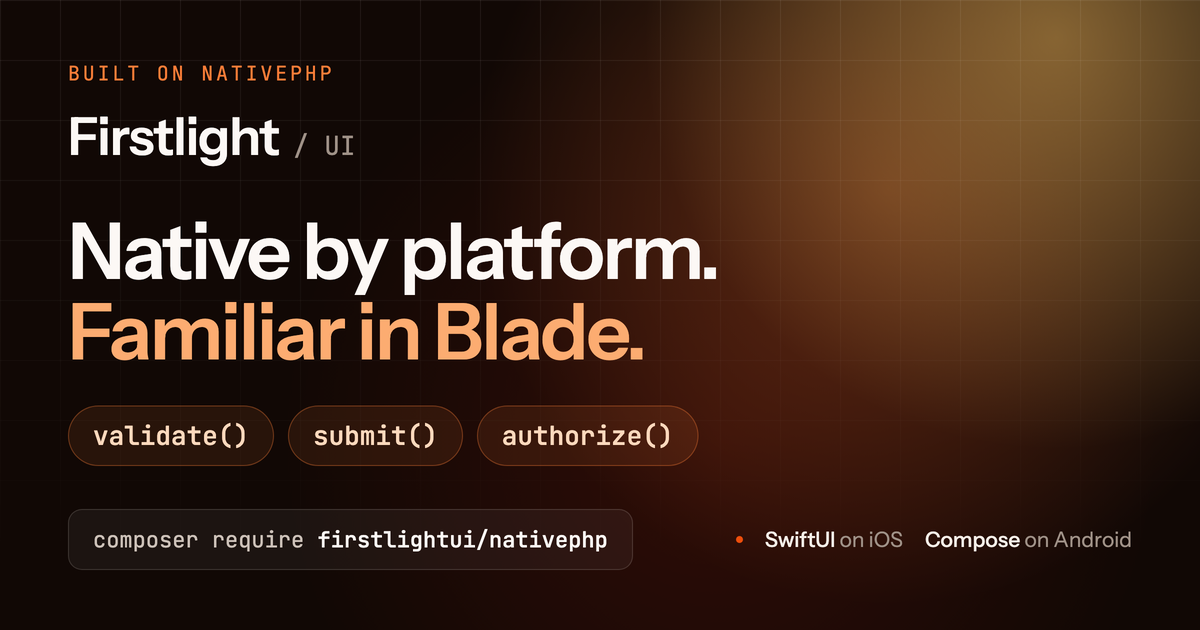
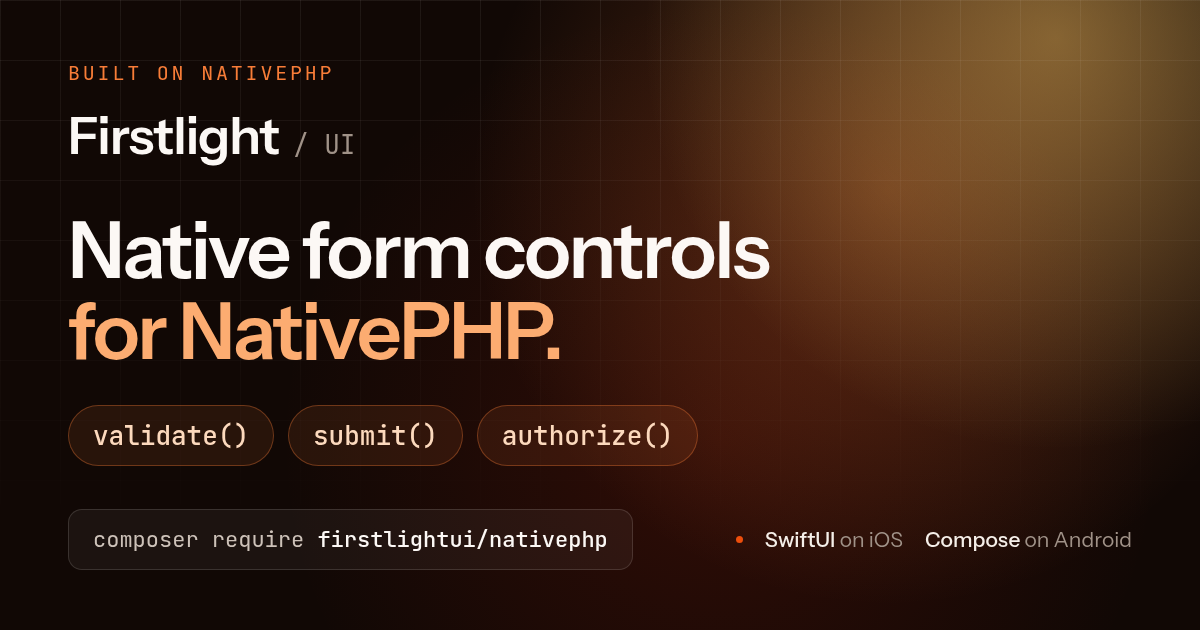
Replace slogan-style copy with plain descriptions
Rewrite the hero, section headings, comparison page, components index,
docs chrome, gallery summaries, and OG image so they say what Firstlight
does instead of using parallel taglines. Stop calling Firstlight an
alternative to Mobile UI, which the comparison page contradicts.

Amp-Thread-ID: https://ampcode.com/threads/T-01a16b09-656a-7799-a5f1-fa3d23450373

diff --git a/resources/og-image.html b/resources/og-image.html
@@ -79,7 +79,7 @@
     </div>
 
     <div>
-      <h1>Native by platform.<br><em>Familiar in Blade.</em></h1>
+      <h1>Native form controls<br><em>for NativePHP.</em></h1>
       <div class="helpers">
         <div class="helper">validate()</div>
         <div class="helper">submit()</div>

diff --git a/resources/views/welcome.blade.php b/resources/views/welcome.blade.php
@@ -1,7 +1,7 @@
 @inject('structuredData', 'App\\StructuredData')
 
 <x-layouts.app
-    title="Firstlight UI — Native-first building blocks for NativePHP"
+    title="Firstlight UI — Native form controls for NativePHP"
     description="Add Laravel validate(), submit(), and Gate-backed authorize() on native screens, plus a curated form layer on NativePHP Mobile UI."
     :schema="$structuredData->home()"
 >
@@ -15,10 +15,10 @@
                         Built on <a href="https://nativephp.com" class="rounded-sm underline decoration-(--site-border-strong) underline-offset-4 hover:decoration-(--site-primary) focus-visible:outline-2 focus-visible:outline-offset-4 focus-visible:outline-(--site-focus)" target="_blank" rel="noreferrer">NativePHP SuperNative</a>
                     </p>
                     <h1 class="max-w-[11ch] text-6xl font-semibold tracking-tight text-balance text-(--site-heading) sm:text-7xl lg:text-[5.75rem]">
-                        Native by platform. Familiar in Blade.
+                        Native form controls for NativePHP.
                     </h1>
                     <p class="max-w-[48ch] text-xl text-pretty text-(--site-muted)">
-                        Firstlight is a curated form and control layer for NativePHP Mobile UI. It builds on Mobile UI’s official SwiftUI and Jetpack Compose foundation, adding stable values, consistent field semantics, Laravel <code class="font-mono text-[0.95em]">validate()</code>, <code class="font-mono text-[0.95em]">submit()</code>, and Gate-backed <code class="font-mono text-[0.95em]">authorize()</code> on native screens, and server-authoritative state through familiar Blade components. NativePHP EDGE does not ship those PHP helpers; Firstlight does. It runs on the SuperNative foundation created by <a href="https://github.com/shanerbaner82" class="font-medium text-(--site-heading) underline decoration-(--site-border-strong) underline-offset-4 hover:decoration-(--site-primary) focus-visible:outline-2 focus-visible:outline-offset-4 focus-visible:outline-(--site-focus)" target="_blank" rel="noreferrer">Shane Rosenthal</a> and <a href="https://github.com/simonhamp" class="font-medium text-(--site-heading) underline decoration-(--site-border-strong) underline-offset-4 hover:decoration-(--site-primary) focus-visible:outline-2 focus-visible:outline-offset-4 focus-visible:outline-(--site-focus)" target="_blank" rel="noreferrer">Simon Hamp</a>.
+                        Firstlight is a curated form and control layer for NativePHP Mobile UI. Controls render with SwiftUI on iOS and Jetpack Compose on Android, keep their state in your PHP component, and come with Laravel-style <code class="font-mono text-[0.95em]">validate()</code>, <code class="font-mono text-[0.95em]">submit()</code>, and Gate-backed <code class="font-mono text-[0.95em]">authorize()</code> for native screens. It runs on the SuperNative foundation created by <a href="https://github.com/shanerbaner82" class="font-medium text-(--site-heading) underline decoration-(--site-border-strong) underline-offset-4 hover:decoration-(--site-primary) focus-visible:outline-2 focus-visible:outline-offset-4 focus-visible:outline-(--site-focus)" target="_blank" rel="noreferrer">Shane Rosenthal</a> and <a href="https://github.com/simonhamp" class="font-medium text-(--site-heading) underline decoration-(--site-border-strong) underline-offset-4 hover:decoration-(--site-primary) focus-visible:outline-2 focus-visible:outline-offset-4 focus-visible:outline-(--site-focus)" target="_blank" rel="noreferrer">Simon Hamp</a>.
                     </p>
                 </div>
 
@@ -110,10 +110,10 @@
             <div class="flex flex-col gap-5">
                 <p class="font-mono text-base uppercase tracking-wide text-(--site-primary) sm:text-sm">Built on NativePHP Mobile UI</p>
                 <h2 class="max-w-[18ch] text-4xl font-semibold tracking-tight text-balance text-(--site-heading) sm:text-5xl">
-                    A focused control layer for the native toolkit.
+                    A smaller catalogue on top of Mobile UI.
                 </h2>
                 <p class="max-w-[56ch] text-lg text-pretty text-(--site-muted)">
-                    <a href="https://nativephp.com" class="font-medium text-(--site-heading) underline decoration-(--site-border-strong) underline-offset-4 hover:decoration-(--site-primary) focus-visible:outline-2 focus-visible:outline-offset-4 focus-visible:outline-(--site-focus)" target="_blank" rel="noreferrer">NativePHP Mobile UI</a> provides the comprehensive native foundation for NativePHP applications. Firstlight builds on it with a smaller, opinionated catalogue for teams that want common form behaviour decided once and reused consistently.
+                    <a href="https://nativephp.com" class="font-medium text-(--site-heading) underline decoration-(--site-border-strong) underline-offset-4 hover:decoration-(--site-primary) focus-visible:outline-2 focus-visible:outline-offset-4 focus-visible:outline-(--site-focus)" target="_blank" rel="noreferrer">NativePHP Mobile UI</a> provides the native foundation for NativePHP apps. Firstlight adds a smaller, opinionated set of controls for apps that want the same form behaviour on every screen.
                 </p>
                 <div class="flex flex-wrap items-center gap-x-6 gap-y-2">
                     <a href="{{ route('comparison') }}" class="rounded-sm py-2 text-base font-semibold text-(--site-heading) underline decoration-(--site-border-strong) underline-offset-4 hover:decoration-(--site-primary) focus-visible:outline-2 focus-visible:outline-offset-4 focus-visible:outline-(--site-focus) sm:text-sm">Firstlight vs NativePHP Mobile UI →</a>
@@ -123,19 +123,19 @@
 
             <dl class="mt-16 grid gap-0 md:grid-cols-3">
                 <div class="flex flex-col gap-4 border-t border-(--site-border) py-8 md:border-t-0 md:border-r md:py-0 md:pr-8">
-                    <dt class="text-xl font-semibold text-(--site-heading)">Familiar at the source</dt>
+                    <dt class="text-xl font-semibold text-(--site-heading)">Plain Blade and PHP</dt>
                     <dd class="text-base text-pretty text-(--site-muted) sm:text-sm">
-                        Compose controls with Blade tags, Laravel properties, and NativePHP events. No parallel state model to learn.
+                        Use controls as Blade tags bound to properties on your component, with ordinary NativePHP events. There is no separate state model to learn.
                     </dd>
                 </div>
                 <div class="flex flex-col gap-4 border-t border-(--site-border) py-8 md:border-t-0 md:border-r md:px-8 md:py-0">
-                    <dt class="text-xl font-semibold text-(--site-heading)">NativePHP all the way down</dt>
+                    <dt class="text-xl font-semibold text-(--site-heading)">Built with Mobile UI’s extension points</dt>
                     <dd class="text-base text-pretty text-(--site-muted) sm:text-sm">
-                        Firstlight uses Mobile UI’s ordinary component extension points, inherits its semantic theme, and follows the same SwiftUI and Material 3 approach.
+                        Firstlight registers its controls through Mobile UI’s ordinary component extension points, inherits its theme, and renders with SwiftUI and Material 3.
                     </dd>
                 </div>
                 <div class="flex flex-col gap-4 border-y border-(--site-border) py-8 md:border-y-0 md:py-0 md:pl-8">
-                    <dt class="text-xl font-semibold text-(--site-heading)">Laravel SuperNative extensions</dt>
+                    <dt class="text-xl font-semibold text-(--site-heading)">Validation, submit, and authorization</dt>
                     <dd class="text-base text-pretty text-(--site-muted) sm:text-sm">
                         NativePHP has no screen-level <code class="font-mono text-[0.95em]">validate()</code>, guarded <code class="font-mono text-[0.95em]">submit()</code>, or Gate-backed <code class="font-mono text-[0.95em]">authorize()</code>. Firstlight adds those PHP contracts on native fields and actions.
                     </dd>
@@ -150,10 +150,10 @@
             <div class="flex flex-col gap-5">
                 <p class="font-mono text-base uppercase tracking-wide text-(--site-primary) sm:text-sm">Laravel SuperNative extensions</p>
                 <h2 class="max-w-[18ch] text-4xl font-semibold tracking-tight text-balance text-(--site-heading) sm:text-5xl">
-                    NativePHP publishes a tree. Firstlight adds Laravel around it.
+                    Laravel helpers for native screens.
                 </h2>
                 <p class="max-w-[56ch] text-lg text-pretty text-(--site-muted)">
-                    NativePHP EDGE has no screen-level <code class="font-mono text-[0.95em]">validate()</code>, no once-run submit helper, and no Gate-backed action guard. Failed rules, double presses, and unauthorized mutations still fall through to sibling text or the generic overlay. Firstlight adds three PHP concerns on <code class="font-mono text-[0.95em]">NativeComponent</code>: <code class="font-mono text-[0.95em]">ValidatesFields</code>, <code class="font-mono text-[0.95em]">SubmitsForms</code>, and <code class="font-mono text-[0.95em]">AuthorizesActions</code>.
+                    NativePHP EDGE has no screen-level <code class="font-mono text-[0.95em]">validate()</code>, no once-run submit helper, and no Gate-backed action guard. Without them, validation errors appear as sibling text or the generic error overlay, a double tap can run an action twice, and an authorization failure opens the overlay. Firstlight adds three PHP concerns on <code class="font-mono text-[0.95em]">NativeComponent</code>: <code class="font-mono text-[0.95em]">ValidatesFields</code>, <code class="font-mono text-[0.95em]">SubmitsForms</code>, and <code class="font-mono text-[0.95em]">AuthorizesActions</code>.
                 </p>
             </div>
 
@@ -170,7 +170,7 @@
                 <div class="flex flex-col gap-4 border-t border-(--site-border) py-8 lg:border-t-0 lg:border-r lg:px-8 lg:py-0">
                     <dt class="text-xl font-semibold text-(--site-heading)">Submit</dt>
                     <dd class="text-base text-pretty text-(--site-muted) sm:text-sm">
-                        A NativePHP press is just a PHP method. Firstlight <code class="font-mono text-[0.95em]">submit()</code> validates, runs the callable once, optionally sends success Feedback, and guards re-entry on the same request.
+                        In NativePHP, a button press calls a plain PHP method. Firstlight <code class="font-mono text-[0.95em]">submit()</code> validates, runs the callable once, optionally sends success Feedback, and guards re-entry on the same request.
                     </dd>
                     <dd class="rounded-[calc(var(--radius-panel)-0.5rem)] bg-(--site-code) p-5 ring-1 ring-(--site-border)">
                         <pre class="overflow-x-auto font-mono text-base text-(--site-code-text) sm:text-sm"><code><span class="text-(--site-code-keyword)">$this</span>->submit(
@@ -214,7 +214,7 @@
                 <a href="{{ route('docs.show', ['path' => 'concepts/firstlight-and-mobile-ui']) }}" class="group flex flex-col items-start gap-3 rounded-(--radius-panel) bg-(--site-surface) p-6 ring-1 ring-(--site-border) hover:bg-(--site-elevated) focus-visible:outline-2 focus-visible:outline-offset-2 focus-visible:outline-(--site-focus)">
                     <p class="font-mono text-xs font-medium uppercase tracking-[0.12em] text-(--site-primary)">Concept</p>
                     <p class="text-xl font-semibold text-(--site-heading)">How Firstlight complements NativePHP Mobile UI</p>
-                    <p class="text-base text-pretty text-(--site-muted) sm:text-sm">See the focused form layer and Laravel-shaped PHP extensions Firstlight adds on Mobile UI.</p>
+                    <p class="text-base text-pretty text-(--site-muted) sm:text-sm">See which controls and PHP helpers Firstlight adds, and what stays in Mobile UI.</p>
                     <span class="pt-2 text-base font-semibold text-(--site-heading) underline decoration-(--site-border-strong) underline-offset-4 group-hover:decoration-(--site-primary) sm:text-sm">Read how the catalogues fit →</span>
                 </a>
             </div>
@@ -227,11 +227,11 @@
                 <div class="flex flex-col gap-5">
                     <p class="font-mono text-base uppercase tracking-wide text-(--site-primary) sm:text-sm">Current components</p>
                     <h2 class="max-w-[18ch] text-4xl font-semibold tracking-tight text-balance text-(--site-heading) sm:text-5xl">
-                        Curated controls. Consistent contracts.
+                        Form, selection, display, and action controls.
                     </h2>
                 </div>
                 <p class="max-w-[56ch] text-lg text-pretty text-(--site-muted)">
-                    Firstlight focuses on form, selection, display, and action controls with stable values, strict validation, and consistent field semantics. The catalogue grows where a reusable product-level contract saves every app from solving the same problem again.
+                    Every field shares the same value, label, error, disabled, and required behaviour, so a form needs no per-control special cases. New controls are added only when many apps would otherwise build the same thing themselves.
                 </p>
             </div>
 
@@ -288,27 +288,27 @@
     <section class="border-y border-(--site-border) bg-(--site-code) py-20 text-(--site-code-text) sm:py-28">
         <div class="mx-auto grid max-w-7xl items-start gap-12 px-6 lg:grid-cols-[13fr_11fr] lg:px-8">
             <div class="flex flex-col gap-6">
-                <p class="font-mono text-base uppercase tracking-wide text-(--site-code-keyword) sm:text-sm">Firstlight in the NativePHP ecosystem</p>
+                <p class="font-mono text-base uppercase tracking-wide text-(--site-code-keyword) sm:text-sm">How it renders</p>
                 <h2 class="max-w-[18ch] text-4xl font-semibold tracking-tight text-balance sm:text-5xl">
-                    SuperNative supplies the bridge. Firstlight adds consistent product contracts.
+                    The same rendering pipeline as Mobile UI.
                 </h2>
                 <p class="max-w-[56ch] text-lg text-pretty text-(--site-code-muted)">
-                    Firstlight uses the same EDGE, Element Tree, shared-memory frame, renderer, theme, and event lifecycle as NativePHP Mobile UI. Ordinary interaction stays on the native UI thread.
+                    Firstlight uses the same EDGE element tree, renderers, theme, and event lifecycle as NativePHP Mobile UI. Ordinary interaction, such as typing and scrolling, stays on the native UI thread.
                 </p>
             </div>
 
             <dl class="divide-y divide-white/10 border-y border-white/10">
                 <div class="grid grid-cols-[auto_1fr] gap-x-5 py-5">
                     <dt class="font-mono text-base text-(--site-code-keyword) sm:text-sm">01</dt>
-                    <dd class="text-base text-pretty text-(--site-code-text) sm:text-sm">Blade compiles to a Firstlight element with stable public values.</dd>
+                    <dd class="text-base text-pretty text-(--site-code-text) sm:text-sm">Your Blade view compiles to Firstlight elements.</dd>
                 </div>
                 <div class="grid grid-cols-[auto_1fr] gap-x-5 py-5">
                     <dt class="font-mono text-base text-(--site-code-keyword) sm:text-sm">02</dt>
-                    <dd class="text-base text-pretty text-(--site-code-text) sm:text-sm">The shared element tree publishes primitive, platform-neutral intent.</dd>
+                    <dd class="text-base text-pretty text-(--site-code-text) sm:text-sm">The shared element tree describes each control in platform-neutral terms.</dd>
                 </div>
                 <div class="grid grid-cols-[auto_1fr] gap-x-5 py-5">
                     <dt class="font-mono text-base text-(--site-code-keyword) sm:text-sm">03</dt>
-                    <dd class="text-base text-pretty text-(--site-code-text) sm:text-sm">SwiftUI and Compose renderers express that intent natively.</dd>
+                    <dd class="text-base text-pretty text-(--site-code-text) sm:text-sm">SwiftUI on iOS and Jetpack Compose on Android draw the native control.</dd>
                 </div>
             </dl>
         </div>
@@ -321,7 +321,7 @@
                     <div class="flex min-w-0 flex-col gap-6">
                         <p class="font-mono text-base uppercase tracking-wide text-(--site-primary) sm:text-sm">Quickstart</p>
                         <h2 class="max-w-[18ch] text-4xl font-semibold tracking-tight text-balance text-(--site-heading) sm:text-5xl">
-                            Add consistent form contracts without leaving NativePHP.
+                            Add Firstlight to a NativePHP app.
                         </h2>
                         <p class="max-w-[56ch] text-lg text-pretty text-(--site-muted)">
                             Requires NativePHP Mobile <code class="font-mono text-[0.95em]">^4.6</code> and Mobile UI <code class="font-mono text-[0.95em]">^0.8</code>.

diff --git a/resources/views/comparison.blade.php b/resources/views/comparison.blade.php
@@ -8,7 +8,7 @@
         ],
         [
             'question' => 'What does Firstlight add that NativePHP does not have?',
-            'answer' => 'Two layers of contract. At the control level, every Firstlight component exposes a stable public value and the same field semantics — label, value, error, disabled, and required behave identically across text fields, selects, pickers, sliders, and choice groups, so a form does not need per-control special cases. At the screen level, NativePHP EDGE has no validate(), no once-run submit helper, and no Gate-backed action guard; Firstlight adds ValidatesFields, SubmitsForms, and AuthorizesActions, so validation messages bind to the native field error slot, submits run once and publish native Feedback, and Gate decisions hide or disable native controls instead of reaching the generic error overlay.',
+            'answer' => 'Consistent controls and screen-level PHP helpers. At the control level, every Firstlight component exposes a stable public value and the same field semantics — label, value, error, disabled, and required behave identically across text fields, selects, pickers, sliders, and choice groups, so a form does not need per-control special cases. At the screen level, NativePHP EDGE has no validate(), no once-run submit helper, and no Gate-backed action guard; Firstlight adds ValidatesFields, SubmitsForms, and AuthorizesActions, so validation messages bind to the native field error slot, submits run once and publish native Feedback, and Gate decisions hide or disable native controls instead of reaching the generic error overlay.',
         ],
         [
             'question' => 'Can I use Firstlight and NativePHP Mobile UI components on the same screen?',
@@ -24,7 +24,7 @@
         ],
         [
             'question' => 'Why is the Firstlight component catalogue smaller than Mobile UI’s?',
-            'answer' => 'By design. Mobile UI aims for comprehensive native coverage. Firstlight is a curated catalogue of 27 form, selection, display, and action controls, and grows only where a reusable product-level contract saves every app from solving the same problem again.',
+            'answer' => 'By design. Mobile UI aims for comprehensive native coverage. Firstlight is a curated catalogue of 27 form, selection, display, and action controls, and adds a control only when many apps would otherwise build it themselves.',
         ],
         [
             'question' => 'Is Firstlight UI production ready?',
@@ -56,7 +56,7 @@
             </p>
 
             <p class="mt-6 max-w-[62ch] text-base text-pretty text-(--site-muted)">
-                If you are choosing between them, you are asking the wrong question — Firstlight depends on Mobile UI and cannot be used without it. The useful question is whether you want the form, validation, and authorization semantics decided once for you, or written per screen in your own app.
+                You cannot use Firstlight without Mobile UI. The real decision is whether you want form, validation, and authorization behaviour from a package, or written per screen in your own app.
             </p>
         </div>
     </section>
@@ -102,10 +102,6 @@
                     </tbody>
                 </table>
             </div>
-
-            <p class="mt-6 max-w-[62ch] text-base text-pretty text-(--site-muted)">
-                Every row above describes a difference in responsibility, not in quality. Firstlight exists because these three PHP concerns are the ones every NativePHP app ends up rebuilding, not because the foundation is lacking.
-            </p>
         </div>
     </section>
 

diff --git a/config/component-gallery.php b/config/component-gallery.php
@@ -29,7 +29,7 @@ return [
             'title' => 'Activity Indicator',
             'tag' => 'firstlight:activity-indicator',
             'availability' => 'Available',
-            'summary' => 'Communicate active work when no meaningful completion value is available with a native indeterminate indicator.',
+            'summary' => 'Show that work is in progress when there is no completion value to report.',
             'index_variant' => 'medium',
             'screenshots' => $nativeEvidence('activity-indicator', 'Activity Indicator'),
         ],
@@ -38,7 +38,7 @@ return [
             'title' => 'Button',
             'tag' => 'firstlight:button',
             'availability' => 'Available',
-            'summary' => 'Perform one immediate, labelled action with a foundational native control under the Firstlight API.',
+            'summary' => 'Run one labelled action with a native button.',
             'index_variant' => 'wide',
             'screenshots' => $nativeEvidence('button', 'Button'),
         ],
@@ -69,7 +69,7 @@ return [
             'title' => 'Badge',
             'tag' => 'firstlight:badge',
             'availability' => 'Available',
-            'summary' => 'Present a compact, display-only count or short marker with native platform expression.',
+            'summary' => 'Show a compact, display-only count or short marker.',
             'index_variant' => 'medium',
             'screenshots' => $nativeEvidence('badge', 'Badge'),
         ],
@@ -78,7 +78,7 @@ return [
             'title' => 'Checkbox',
             'tag' => 'firstlight:checkbox',
             'availability' => 'Available',
-            'summary' => 'Represent one strict Boolean form or checklist value with server-authoritative native state.',
+            'summary' => 'Toggle one Boolean value in a form or checklist, with the state kept in PHP.',
             'index_variant' => 'medium',
             'screenshots' => $nativeEvidence('checkbox', 'Checkbox'),
         ],
@@ -216,7 +216,7 @@ return [
             'title' => 'Segmented',
             'tag' => 'firstlight:segmented',
             'availability' => 'Available',
-            'summary' => 'Present a small set of mutually exclusive choices as a genuine native segmented control.',
+            'summary' => 'Pick one of a few mutually exclusive choices with a native segmented control.',
             'index_variant' => 'wide',
             'screenshots' => $nativeEvidence('segmented', 'Segmented'),
         ],
@@ -261,7 +261,7 @@ return [
             'title' => 'Status Label',
             'tag' => 'firstlight:status-label',
             'availability' => 'Available',
-            'summary' => 'Present short display-only metadata or status text as a native semantic capsule.',
+            'summary' => 'Show short, display-only status text in a coloured native capsule.',
             'index_variant' => 'medium',
             'screenshots' => $nativeEvidence('status-label', 'Status Label'),
         ],

diff --git a/resources/views/docs/show.blade.php b/resources/views/docs/show.blade.php
@@ -17,7 +17,7 @@
                     <a href="{{ route('docs.show', ['path' => 'how-to/validate-fields']) }}" class="rounded-sm py-1 text-sm font-semibold text-(--site-heading) underline decoration-(--site-border-strong) underline-offset-4 hover:decoration-(--site-primary) focus-visible:outline-2 focus-visible:outline-offset-4 focus-visible:outline-(--site-focus)">Validate</a>
                     <a href="{{ route('docs.show', ['path' => 'how-to/submit-forms']) }}" class="rounded-sm py-1 text-sm font-semibold text-(--site-heading) underline decoration-(--site-border-strong) underline-offset-4 hover:decoration-(--site-primary) focus-visible:outline-2 focus-visible:outline-offset-4 focus-visible:outline-(--site-focus)">Submit</a>
                     <a href="{{ route('docs.show', ['path' => 'how-to/authorize-actions']) }}" class="rounded-sm py-1 text-sm font-semibold text-(--site-heading) underline decoration-(--site-border-strong) underline-offset-4 hover:decoration-(--site-primary) focus-visible:outline-2 focus-visible:outline-offset-4 focus-visible:outline-(--site-focus)">Authorize</a>
-                    <a href="{{ route('docs.show', ['path' => 'concepts/firstlight-and-mobile-ui']) }}" class="rounded-sm py-1 text-sm font-semibold text-(--site-heading) underline decoration-(--site-border-strong) underline-offset-4 hover:decoration-(--site-primary) focus-visible:outline-2 focus-visible:outline-offset-4 focus-visible:outline-(--site-focus)">Complements NativePHP</a>
+                    <a href="{{ route('docs.show', ['path' => 'concepts/firstlight-and-mobile-ui']) }}" class="rounded-sm py-1 text-sm font-semibold text-(--site-heading) underline decoration-(--site-border-strong) underline-offset-4 hover:decoration-(--site-primary) focus-visible:outline-2 focus-visible:outline-offset-4 focus-visible:outline-(--site-focus)">Firstlight and Mobile UI</a>
                 </div>
             </div>
 
@@ -83,7 +83,7 @@
                 <span class="size-1.5 rounded-full bg-(--site-primary)" aria-hidden="true"></span>
                 Served from
                 <a href="https://github.com/firstlightui/nativephp/tree/main/docs" class="font-medium text-(--site-heading) underline decoration-(--site-border-strong) underline-offset-4 hover:decoration-(--site-primary) focus-visible:outline-2 focus-visible:outline-offset-4 focus-visible:outline-(--site-focus)" target="_blank" rel="noreferrer">firstlightui/nativephp</a>
-                and cached for a fast first read.
+                on GitHub.
             </p>
         </div>
     </div>

diff --git a/tests/Feature/ExampleTest.php b/tests/Feature/ExampleTest.php
@@ -3,18 +3,18 @@
 test('the homepage introduces Firstlight and its native implementation', function () {
     $this->get(route('home'))
         ->assertSuccessful()
-        ->assertSee('Native by platform. Familiar in Blade.')
+        ->assertSee('Native form controls for NativePHP.')
         ->assertSee('NativePHP Mobile UI')
         ->assertSee('curated form and control layer')
-        ->assertSee('Mobile UI’s official SwiftUI and Jetpack Compose foundation')
-        ->assertSee('A focused control layer for the native toolkit.')
-        ->assertSee('Curated controls. Consistent contracts.')
-        ->assertSee('SuperNative supplies the bridge.')
+        ->assertSee('Controls render with SwiftUI on iOS and Jetpack Compose on Android')
+        ->assertSee('A smaller catalogue on top of Mobile UI.')
+        ->assertSee('Form, selection, display, and action controls.')
+        ->assertSee('The same rendering pipeline as Mobile UI.')
         ->assertSee(route('docs.show', ['path' => 'concepts/firstlight-and-mobile-ui']), false)
         ->assertSee(route('docs.show', ['path' => 'how-to/validate-fields']), false)
         ->assertSee(route('docs.show', ['path' => 'how-to/submit-forms']), false)
         ->assertSee(route('docs.show', ['path' => 'how-to/authorize-actions']), false)
-        ->assertSee('NativePHP publishes a tree. Firstlight adds Laravel around it.')
+        ->assertSee('Laravel helpers for native screens.')
         ->assertSee('@nativeError')
         ->assertSee('Laravel SuperNative extensions')
         ->assertSee('->submit(', escape: false)
@@ -40,7 +40,7 @@ test('the homepage presents every configured component with native evidence', fu
     $response = $this->get(route('home'))->assertSuccessful();
 
     $response
-        ->assertSee('Curated controls. Consistent contracts.')
+        ->assertSee('Form, selection, display, and action controls.')
         ->assertSee('data-component-catalogue-track', escape: false)
         ->assertSee('component-evidence-image', escape: false)
         ->assertDontSee('data-component-evidence="mock"', escape: false);

diff --git a/resources/views/components/index.blade.php b/resources/views/components/index.blade.php
@@ -1,8 +1,8 @@
 @inject('structuredData', 'App\\StructuredData')
 
 <x-layouts.app
-    title="Firstlight UI components — Native-first alternatives for NativePHP"
-    description="Explore Firstlight’s native-first alternative component implementations and app building blocks for NativePHP."
+    title="Firstlight UI components — Native controls for NativePHP"
+    description="Browse Firstlight’s native form, selection, display, and action controls for NativePHP, with iOS and Android screenshots."
     main-class="isolate"
     :schema="$structuredData->components(config('component-gallery.components', []))"
 >
@@ -10,9 +10,9 @@
         <div class="mx-auto grid max-w-7xl items-end gap-8 px-6 lg:grid-cols-[13fr_11fr] lg:px-8">
             <div class="flex flex-col gap-5">
                 <p class="font-mono text-xs font-medium uppercase tracking-[0.12em] text-(--site-primary)">Component catalogue</p>
-                <h1 class="max-w-[16ch] text-5xl font-semibold tracking-tight text-balance text-(--site-heading) sm:text-6xl">Native-first alternatives, in familiar Blade.</h1>
+                <h1 class="max-w-[16ch] text-5xl font-semibold tracking-tight text-balance text-(--site-heading) sm:text-6xl">Every Firstlight control.</h1>
             </div>
-            <p class="max-w-[54ch] text-lg text-pretty text-(--site-muted)">Firstlight wraps familiar NativePHP patterns, offers alternative implementations where platform-native expression matters, and provides a base for richer app building blocks.</p>
+            <p class="max-w-[54ch] text-lg text-pretty text-(--site-muted)">Each control renders with SwiftUI on iOS and Jetpack Compose on Android. The screenshots show both platforms in light and dark mode.</p>
         </div>
     </section>
 

diff --git a/resources/views/components/layouts/app.blade.php b/resources/views/components/layouts/app.blade.php
@@ -1,6 +1,6 @@
 @props([
     'title' => 'Firstlight UI',
-    'description' => 'Native-first component implementations and app building blocks for NativePHP, authored with familiar Blade syntax.',
+    'description' => 'Native form controls for NativePHP Mobile UI, written in Blade.',
     'mainClass' => 'isolate overflow-hidden',
     'schema' => [],
 ])
@@ -25,7 +25,7 @@
         <meta property="og:image" content="{{ asset('og.png') }}">
         <meta property="og:image:width" content="1200">
         <meta property="og:image:height" content="630">
-        <meta property="og:image:alt" content="Firstlight UI — native by platform, familiar in Blade. validate(), submit(), and authorize() on native screens.">
+        <meta property="og:image:alt" content="Firstlight UI — native form controls for NativePHP. validate(), submit(), and authorize() on native screens.">
         <meta name="twitter:card" content="summary_large_image">
         <meta name="twitter:title" content="{{ $title }}">
         <meta name="twitter:description" content="{{ $description }}">
@@ -113,7 +113,7 @@
                 <div class="flex flex-col items-start gap-3">
                     <a href="{{ route('home') }}" aria-label="Homepage" class="font-semibold tracking-tight text-(--site-heading) focus-visible:outline-2 focus-visible:outline-offset-4 focus-visible:outline-(--site-focus)">Firstlight UI</a>
                     <p class="max-w-[44ch] text-base text-pretty text-(--site-muted) sm:text-sm">
-                        Native-first wrappers and building blocks for NativePHP.
+                        Native form controls for NativePHP Mobile UI.
                     </p>
                 </div>
 

diff --git a/resources/views/errors/docs-unavailable.blade.php b/resources/views/errors/docs-unavailable.blade.php
@@ -7,8 +7,8 @@
         <div class="pointer-events-none absolute inset-0 technical-grid opacity-60" aria-hidden="true"></div>
 
         <div class="relative mx-auto flex max-w-3xl flex-col items-start gap-7 px-6 py-24 sm:py-32 lg:px-8">
-            <p class="font-mono text-sm uppercase tracking-[0.12em] text-(--site-primary)">Docs / Signal interrupted</p>
-            <h1 class="max-w-[14ch] text-5xl font-semibold tracking-tight text-balance text-(--site-heading) sm:text-6xl">The source is taking a moment.</h1>
+            <p class="font-mono text-sm uppercase tracking-[0.12em] text-(--site-primary)">Docs / Unavailable</p>
+            <h1 class="max-w-[14ch] text-5xl font-semibold tracking-tight text-balance text-(--site-heading) sm:text-6xl">The docs could not be loaded.</h1>
             <p class="max-w-[52ch] text-lg text-pretty text-(--site-muted)">
                 Firstlight reads its documentation from GitHub. The cached copy is not available yet, so please try again shortly or read the source directly.
             </p>

diff --git a/tests/Feature/DocumentationTest.php b/tests/Feature/DocumentationTest.php
@@ -128,7 +128,7 @@ it('shows a themed unavailable page when GitHub has no cached response', functio
 
     $this->get('/docs')
         ->assertStatus(503)
-        ->assertSee('The source is taking a moment.')
+        ->assertSee('The docs could not be loaded.')
         ->assertSee('Open GitHub docs');
 });
 
